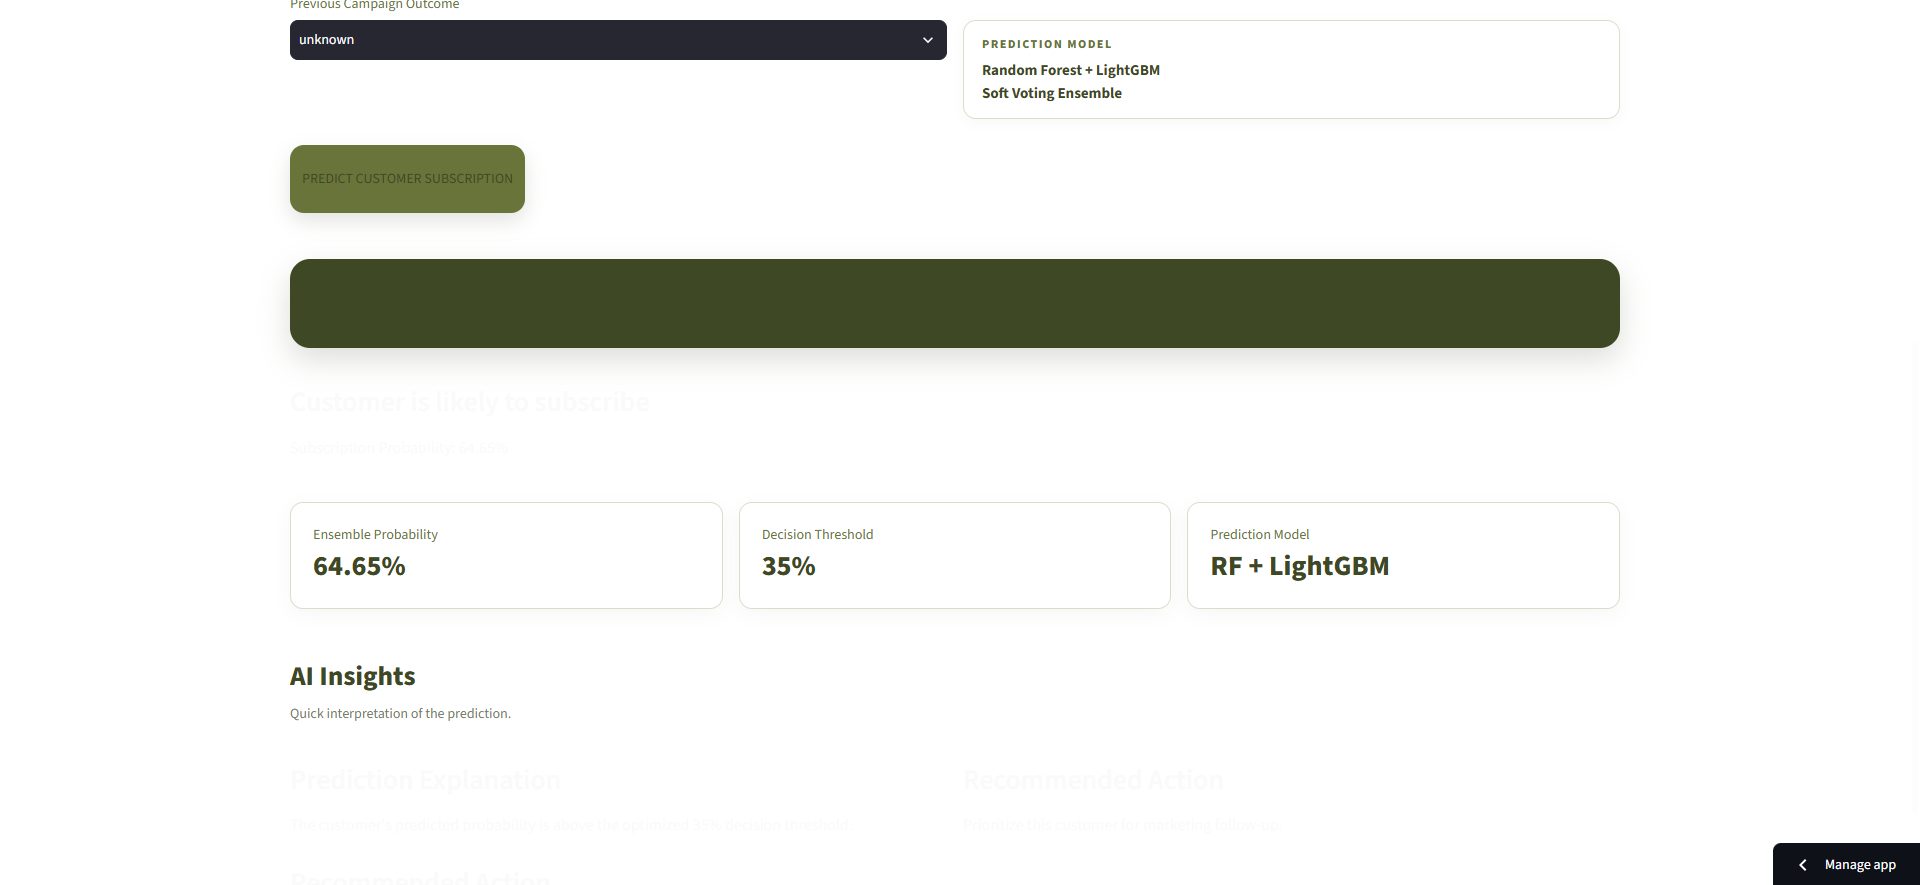
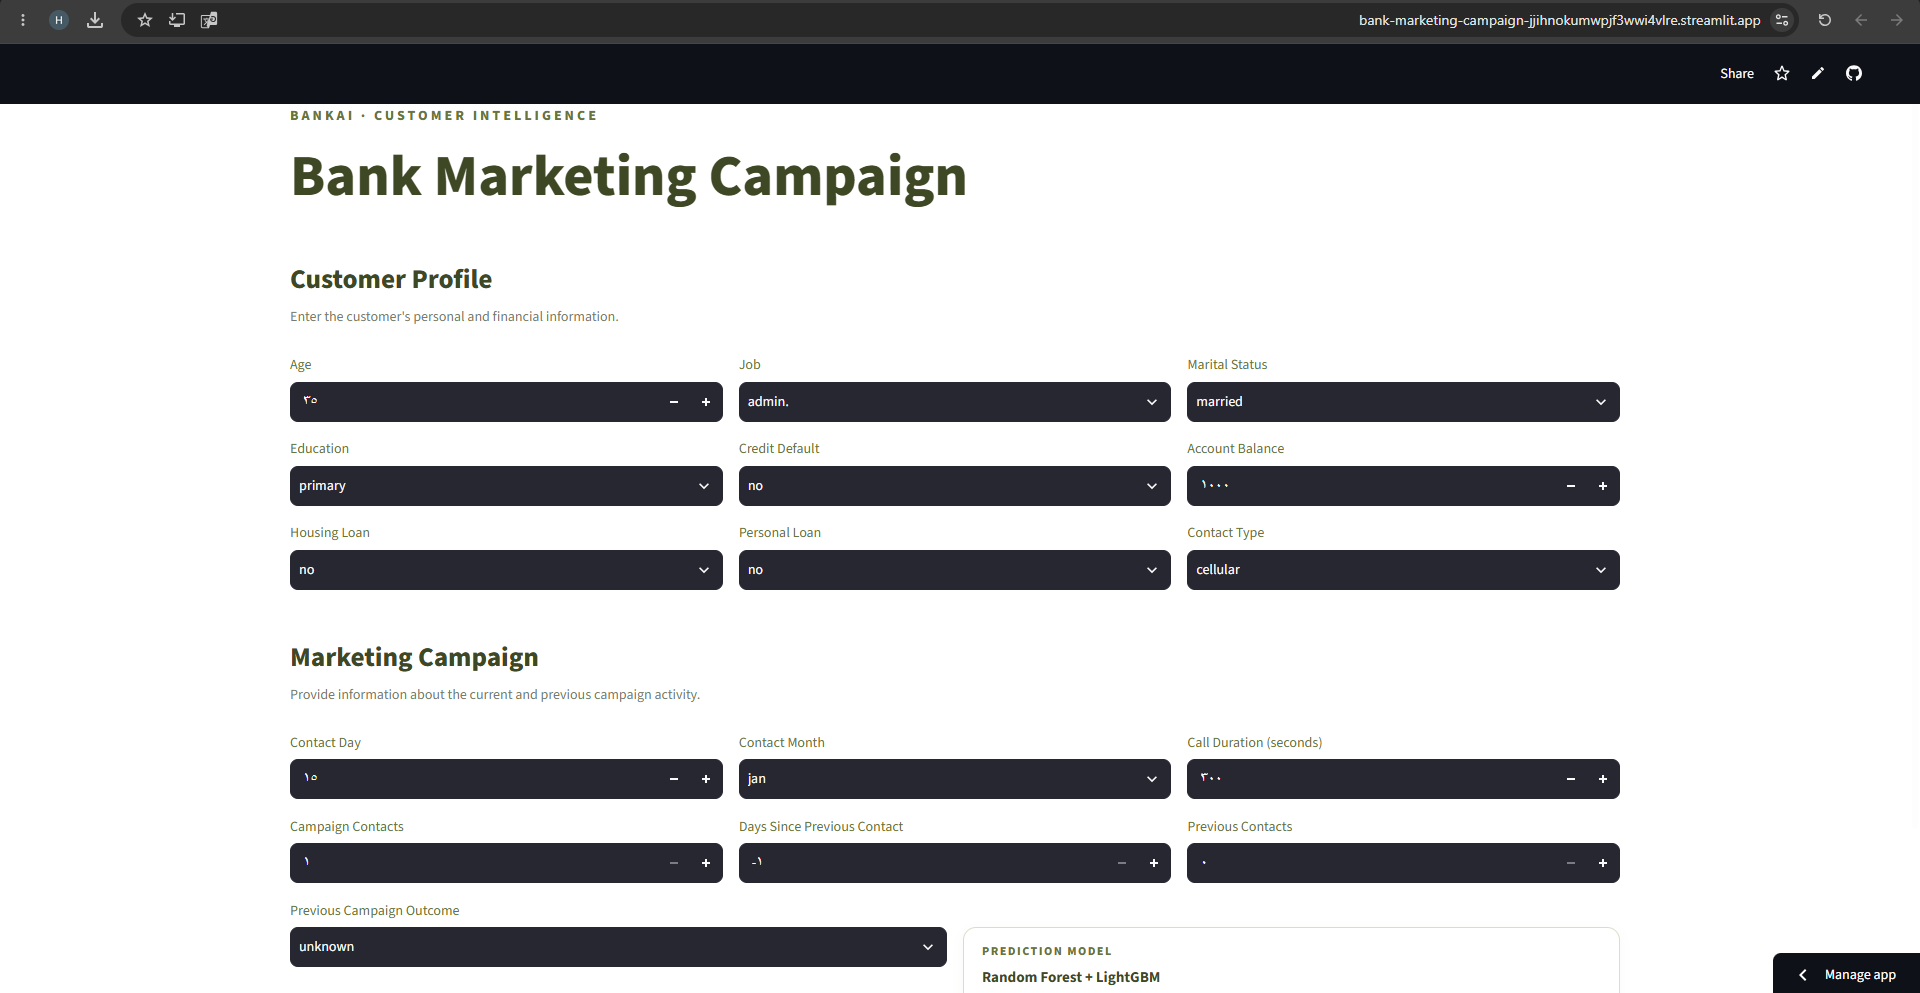
Update application screenshot

diff --git a/README.md b/README.md
@@ -363,16 +363,11 @@ The application will then be available locally through the Streamlit server.
 
 📄 [View Project Presentation](presentation/Bank-Marketing-Campaign.pdf)
 
-## Screenshots
-
 ### Application Interface
-
-![Bank Marketing Application](screenshots/web-bank.png)
+![Bank Marketing Application](screenshots/web-bank-2.png)
 
 ### Prediction Result
-
-![Prediction Result](screenshots/web-bank-2.png)
-## Conclusion
+![Prediction Result](screenshots/web-bank.png)
 
 The **Bank Marketing Campaign** project demonstrates an end-to-end Machine Learning workflow for customer subscription prediction.
 
